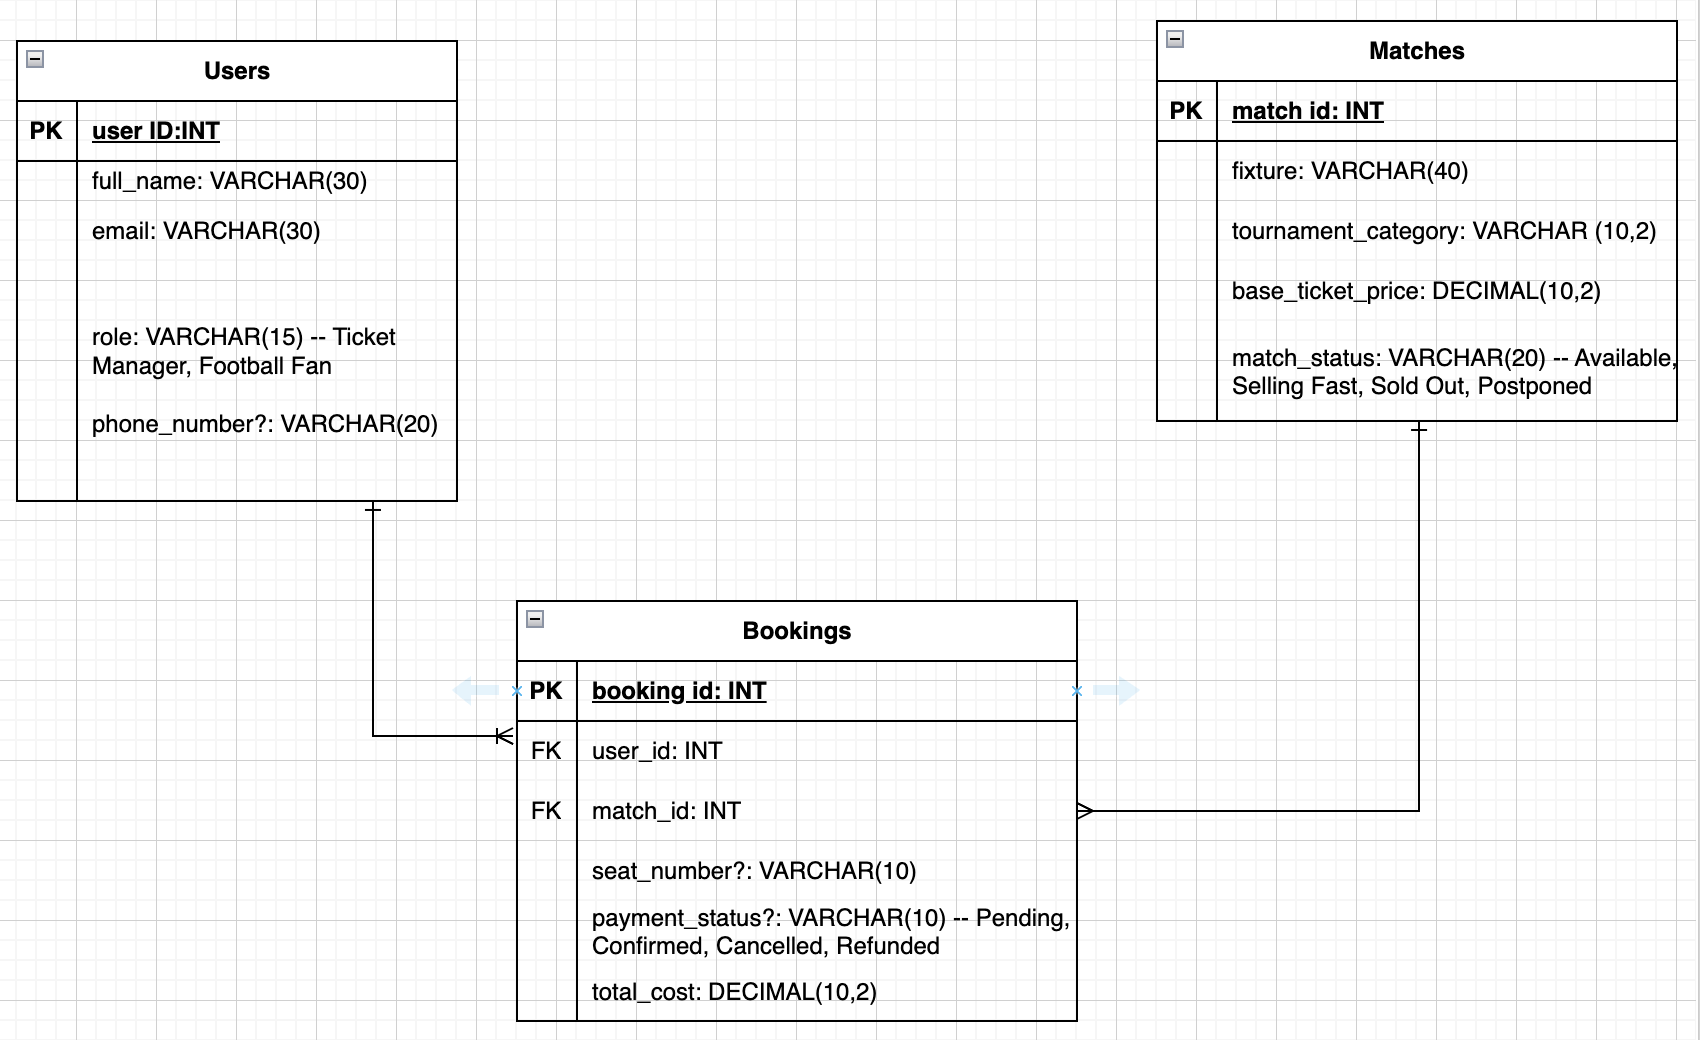
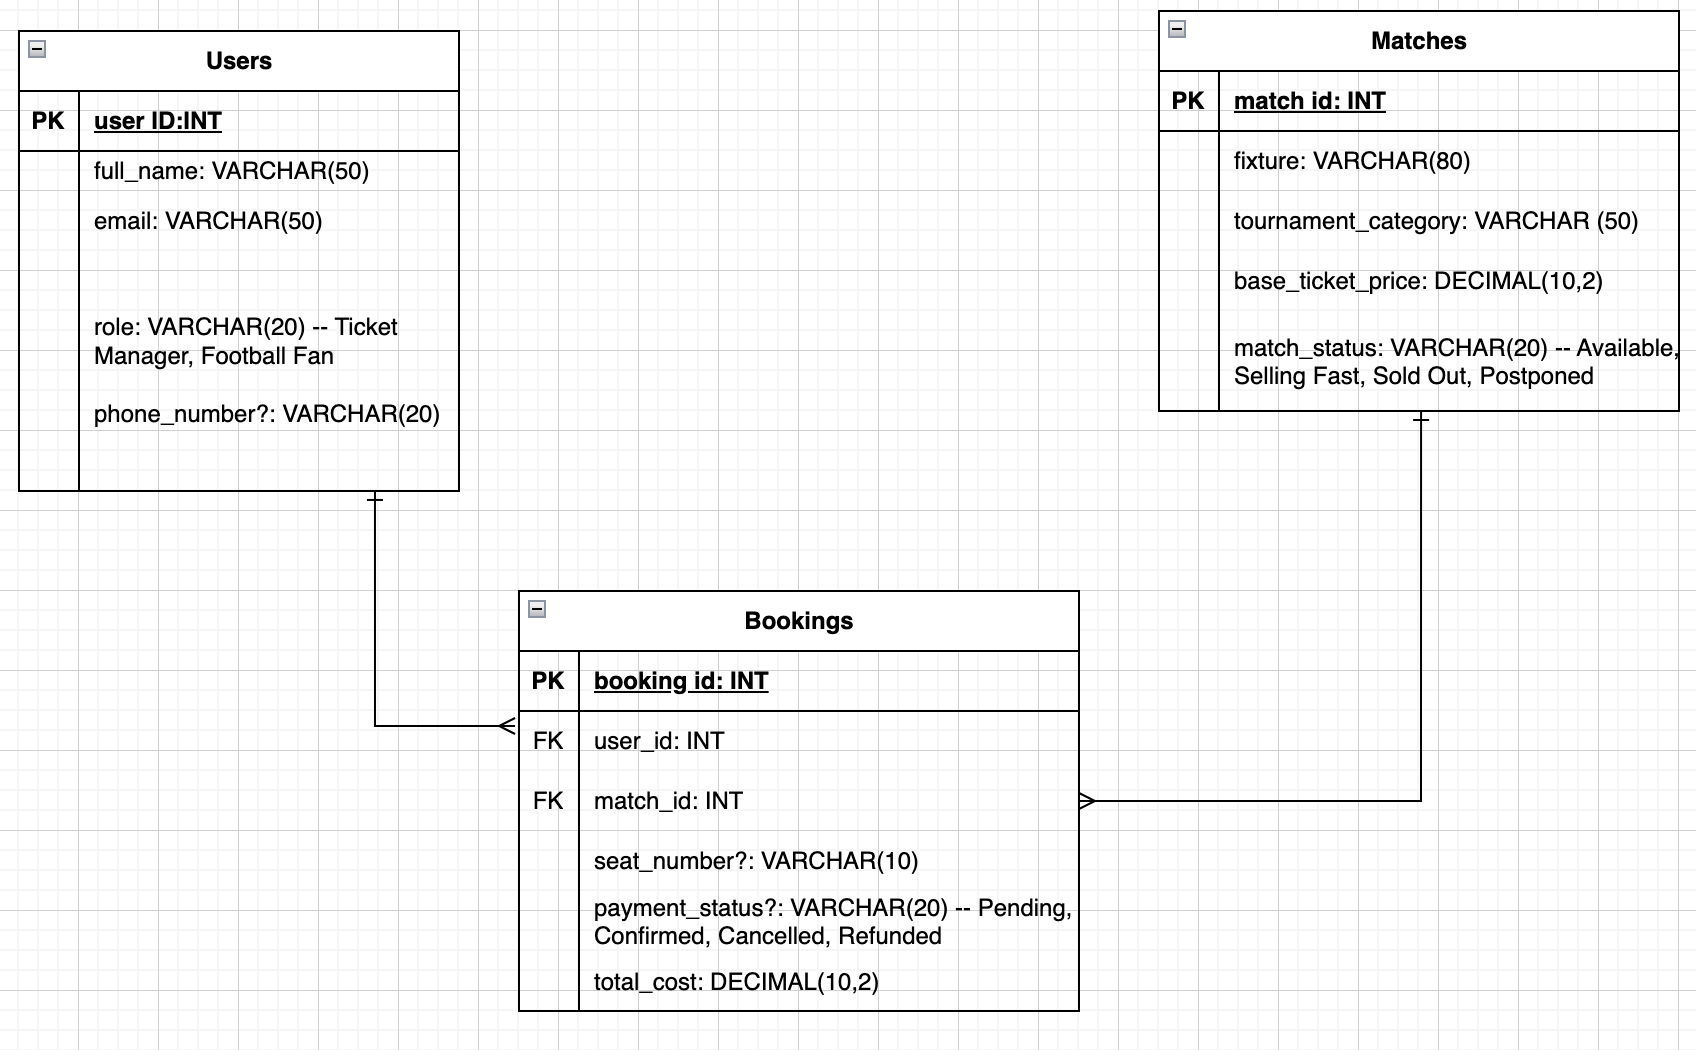
final

diff --git a/README.md b/README.md
@@ -39,7 +39,7 @@ The system is built on three main tables:
 | `Matches`    | Stores upcoming and past match details   |
 | `Bookings`   | Links users to matches via seat bookings |
 
-![ER DIAGRAM](image.png)
+![ER DIAGRAM](![alt text](image.png))
 
 ### Relationships
 